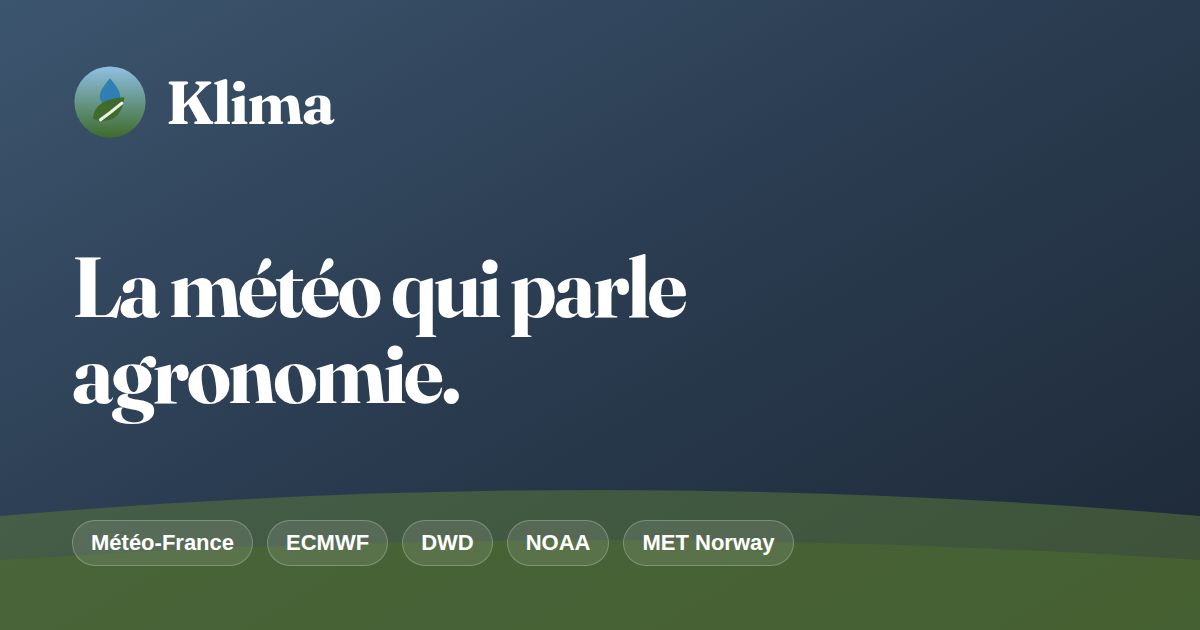
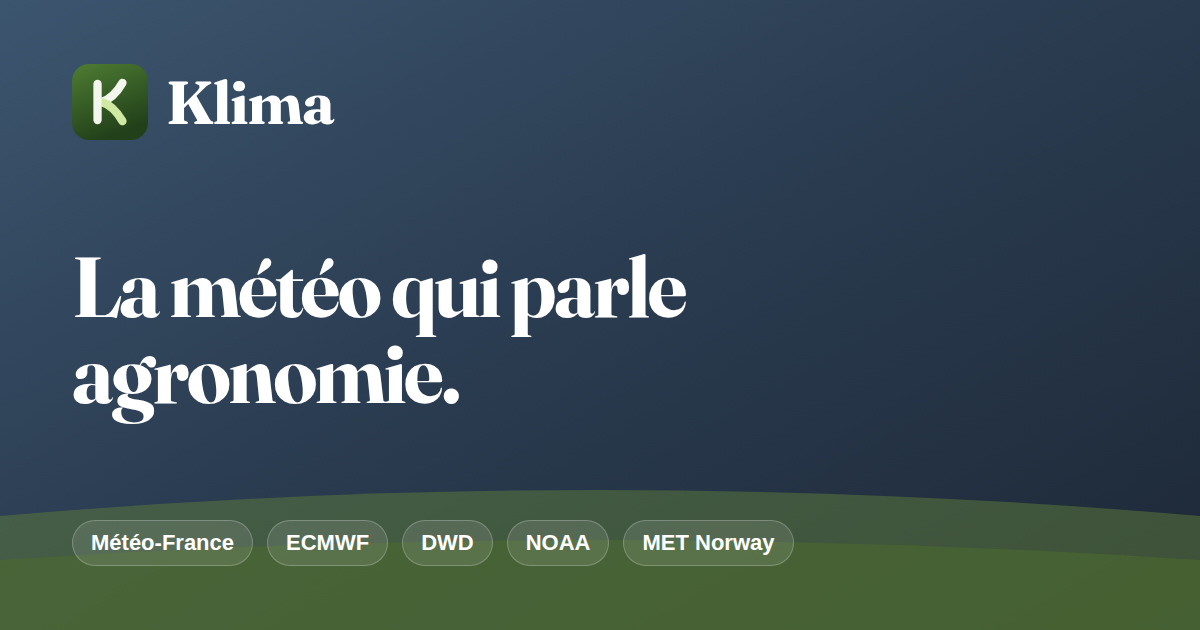
Fait du K la marque de Klima
Le signe devient la lettre du nom : une hampe droite, deux bras cintrés comme
une pousse qui s'ouvre. Le bras haut porte la lumière, le bras bas la feuille.

L'ancien signe — goutte et feuille dans un disque — tenait mal en petit : à
vingt-deux pixels il devenait une tache. Le K se lit encore à cette taille,
parce qu'il n'a que trois formes et un trait épais.

Une piste écartée en chemin : une goutte posée sur la hampe, en écho au signe
précédent. Elle transformait la lettre en « i » suivi d'une feuille — le mot
ne se lisait plus.

Un seul dessin, décliné : favicon, icônes web, icône iOS et watchOS, marque du
site et image de partage sortent de la même géométrie, dans le même repère de
1024. Le composant du site en est la transcription, commentée comme telle.

Changed region(s): [[0.0617, 0.0905, 0.1233, 0.2413]]

diff --git a/site/src/components/Brand.tsx b/site/src/components/Brand.tsx
@@ -1,26 +1,25 @@
 /**
  * Marque de Klima.
  *
- * Un disque de ciel, une goutte et une feuille qui n'en font qu'un : la météo
- * et l'agronomie tenues dans le même signe. Le trait est épais et les formes
- * peu nombreuses, pour rester lisible à seize pixels comme sur une icône
+ * Un K dont la hampe est droite et les bras cintrés, comme une pousse qui
+ * s'ouvre : la lettre du nom et le geste de la plante dans le même signe. Peu
+ * de formes, un trait épais — il tient à vingt-deux pixels comme sur une icône
  * d'application.
+ *
+ * La géométrie est celle des gabarits de /tmp/brand : favicon, icônes web,
+ * icône iOS et watchOS, image de partage et ce composant sortent du même
+ * dessin, dans le même repère de 1024. Toute retouche se porte des deux côtés.
  */
 
 interface Props {
   size?: number
-  /** Vrai pour la version claire, posée sur un fond sombre. */
-  inverted?: boolean
   title?: string
 }
 
-export function BrandMark({ size = 32, inverted = false, title }: Props) {
-  const leaf = inverted ? '#ffffff' : '#3f6b2b'
-  const drop = inverted ? '#bfe3f7' : '#2f7fb5'
-
+export function BrandMark({ size = 32, title }: Props) {
   return (
     <svg
-      viewBox="0 0 64 64"
+      viewBox="0 0 1024 1024"
       width={size}
       height={size}
       role={title ? 'img' : 'presentation'}
@@ -29,42 +28,42 @@ export function BrandMark({ size = 32, inverted = false, title }: Props) {
       className="brand-mark"
     >
       <defs>
-        <linearGradient id="klimaSky" x1="0" y1="0" x2="0" y2="1">
-          <stop offset="0%" stopColor={inverted ? '#4a6d8c' : '#8fc0e4'} />
-          <stop offset="100%" stopColor={inverted ? '#22303f' : '#3f6b2b'} />
+        <linearGradient id="klimaTile" x1="0" y1="0" x2="0.4" y2="1">
+          <stop offset="0%" stopColor="#4e7d33" />
+          <stop offset="100%" stopColor="#22401a" />
         </linearGradient>
       </defs>
 
-      {/* Le ciel et la terre dans un même disque. */}
-      <circle cx="32" cy="32" r="30" fill="url(#klimaSky)" />
+      {/* Le carreau : la parcelle sur laquelle la lettre est posée. */}
+      <rect width="1024" height="1024" rx="229" fill="url(#klimaTile)" />
 
-      {/* La goutte, qui tombe du ciel dans la feuille. */}
+      {/* Les deux bras, cintrés. Le bras haut porte la lumière, le bas la feuille. */}
       <path
-        d="M32 12c5.6 6.6 8.6 11.3 8.6 15.2a8.6 8.6 0 0 1-17.2 0C23.4 23.3 26.4 18.6 32 12Z"
-        fill={drop}
-      />
-
-      {/* La feuille, nervure comprise : le vivant que la météo commande. */}
-      <path
-        d="M18 46c0-10 8-17 26-18-1 13-8 20-18 20a12 12 0 0 1-8-2Z"
-        fill={leaf}
-      />
-      <path
-        d="M24 47c7-5 12-9 18-14"
-        fill="none"
-        stroke={inverted ? '#1d2836' : '#eef3e8'}
-        strokeWidth="2.6"
+        d="M396 512 Q558 466 680 254"
+        stroke="#f2f6ec"
+        strokeWidth="112"
         strokeLinecap="round"
+        fill="none"
       />
+      <path
+        d="M396 512 Q558 558 680 770"
+        stroke="#cfe8a2"
+        strokeWidth="112"
+        strokeLinecap="round"
+        fill="none"
+      />
+
+      {/* La hampe, dessinée en dernier : elle referme la jonction des bras. */}
+      <rect x="288" y="212" width="112" height="600" rx="56" fill="#f2f6ec" />
     </svg>
   )
 }
 
 /** Marque et nom, côte à côte. */
-export function BrandLockup({ size = 30, inverted = false }: Props) {
+export function BrandLockup({ size = 30 }: Props) {
   return (
     <span className="brand">
-      <BrandMark size={size} inverted={inverted} />
+      <BrandMark size={size} />
       <span className="brand__name">Klima</span>
     </span>
   )
